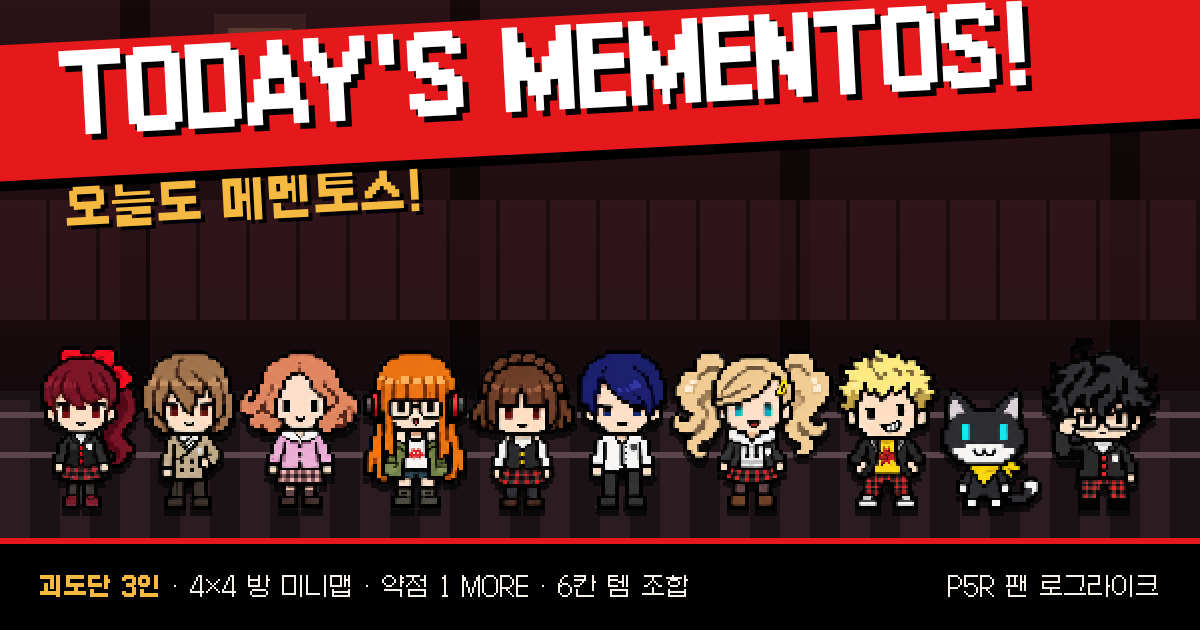
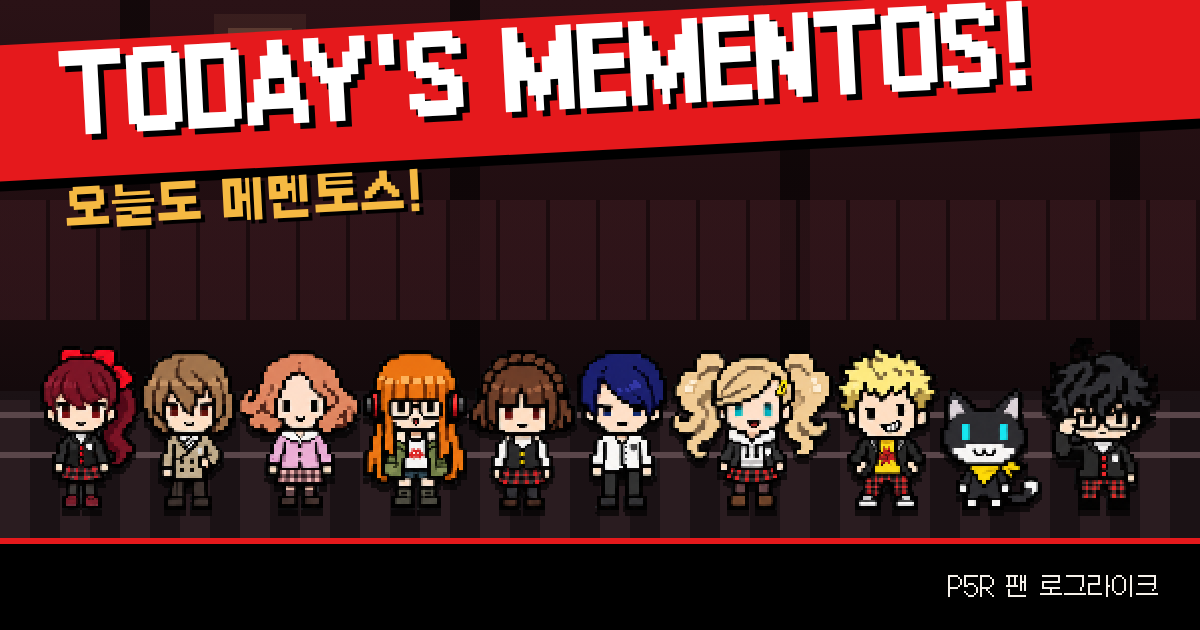
템 도트 아이콘 35종(img/items, tools/item_icons.py) + 공유 썸네일 아래 글씨 제거
- 템 25 · 진화 6 · 부정 기물 4. 16×16, 화면에선 2배 이상 픽셀 그대로. 그림이 없으면 이모지로 대체
- img/items/_sheet.png 미리보기

Claude-Session: https://claude.ai/code/session_01BqkyCJnCrT6qU5GWX59sbL

Changed region(s): [[0.0308, 0.9048, 0.4317, 0.9651], [0.4625, 0.9048, 0.5858, 0.9651]]

diff --git a/index.html b/index.html
@@ -113,6 +113,7 @@ button:disabled{opacity:.35;cursor:default}
 #tut{position:fixed;left:0;right:0;bottom:0;z-index:50;display:flex;justify-content:center;pointer-events:none}
 .tutbox{pointer-events:auto;max-width:440px;width:calc(100% - 16px);margin:0 8px 10px;background:#000;border:3px solid var(--c);box-shadow:6px 6px 0 rgba(0,0,0,.6);padding:10px 12px}
 .tutbox>b{color:var(--c);font-size:18px}.tutbox small{color:var(--mut)}.tutbox p{margin:6px 0 10px;font-size:14px;line-height:1.55}.tutbox .tui{color:var(--gold)}.tutbox .go{padding:10px 14px;font-size:18px}
+.pxi{width:28px;height:28px;image-rendering:pixelated;vertical-align:middle}.slot .pxi{width:28px;height:28px}.pk .pxi{width:36px;height:36px}.neg .pxi,.tog .pxi,.tip .pxi,.card .pxi{width:20px;height:20px;vertical-align:-5px}
 .tip{font-size:12px;color:var(--mut);min-height:18px}
 .acts{display:grid;grid-template-columns:1fr 1fr;gap:7px}
 .ab{background:var(--p2);padding:9px 10px;text-align:left;border-left:4px solid var(--c,#777);min-height:54px}
@@ -266,6 +267,8 @@ const EVO={
  gold:{n:'골드 쇼타임',ic:'🏆',r:'진화',ax:'약점',d:'한 턴에 1 MORE 2번이면 적 전체 60 피해 + 전원 DOWN'},
  choker:{n:'광전사의 초커',ic:'⛓',r:'진화',ax:'폭주',d:'스트레스 60 이상이면 매 턴 시작에 적 1체 20 피해 + 자기 HP 10 회복'}};
 const IT=id=>ITEMS[id]||EVO[id];
+/* 도트 아이콘 (img/items/<id>.png, tools/item_icons.py). 그림이 없으면 원래 이모지 */
+for(const [T,o] of [[ITEMS,0],[EVO,0],[NEG,0]])for(const [k,v] of Object.entries(T)){const e=v.ic;v.ic=`<img class="pxi" src="${IMG}items/${k}.png" alt="" onerror="this.replaceWith(document.createTextNode('${e}'))">`}
 const ROOM={start:{ic:'🚪',n:'입구'},battle:{ic:'⚔',n:'전투'},chest:{ic:'📦',n:'보물 상자'},curio:{ic:'❓',n:'기물'},bench:{ic:'🔧',n:'작업대'},boss:{ic:'💀',n:'관문 보스'}};
 const RISK_MAX=16,RISK_HOT=12;/* 거두는 자: 위험도 16에서 (예전 10은 B2 초입에 나와서 늦춤) */;
 /* ============ 저장 (mm-core · 시제품 때 저장 mm-proto는 처음 한 번 이어받음) ============ */

diff --git a/tools/og.html b/tools/og.html
@@ -24,5 +24,5 @@ html,body{margin:0;width:1200px;height:630px;overflow:hidden;background:#0f0b0c}
 <div class="party">
 <img src="../img/sprites/kasumi.png" width="100"><img src="../img/sprites/akechi.png" width="96"><img src="../img/sprites/haru.png" width="128"><img src="../img/sprites/futaba.png" width="106"><img src="../img/sprites/makoto.png" width="108"><img src="../img/sprites/yusuke.png" width="92"><img src="../img/sprites/ann.png" width="166"><img src="../img/sprites/ryuji.png" width="106"><img src="../img/sprites/mona.png" width="102"><img src="../img/sprites/joker.png" width="118">
 </div>
-<div class="foot"><span><b>괴도단 3인</b> · 4×4 방 미니맵 · 약점 1 MORE · 6칸 템 조합</span><span>P5R 팬 로그라이크</span></div>
+<div class="foot"><span></span><span>P5R 팬 로그라이크</span></div>
 </body></html>

diff --git a/tools/item_icons.py b/tools/item_icons.py
@@ -1,0 +1,259 @@
+"""템 · 진화 템 · 부정 기물 아이콘(16×16 도트)을 img/items/*.png 로 만든다 (개발용)
+
+사용법: python3 tools/item_icons.py   → img/items/<id>.png 와 미리보기 img/items/_sheet.png
+그림은 아래 글자 격자로 그린다. 한 글자 = 한 칸, '.' = 투명. 색은 PAL 참고.
+직접 그린 PNG로 바꾸고 싶으면 같은 이름(img/items/<id>.png, 16×16 권장)으로 덮어쓰면 된다.
+"""
+import os
+from PIL import Image
+
+PAL = {
+    'k': '#141012', 'w': '#f6f1ea', 'r': '#e5191c', 'd': '#8e0f13', 'y': '#f5b942', 'Y': '#b07a1c',
+    'o': '#ff7a3d', 'g': '#9a8f8a', 'G': '#5a5052', 'b': '#59a7ff', 'B': '#2a4d8f', 'c': '#7fd8ff',
+    'p': '#b45cff', 'P': '#ff4fd8', 'n': '#a8693e', 'N': '#5a3a22', 'l': '#5ee08a', 'L': '#2a8f4a',
+    's': '#cfd6df', 'e': '#ffe14a', 'm': '#3a2a2e',
+}
+
+ICONS = {
+ # ---------- 스위칭 축 ----------
+ 'boots': [  # 스프링 부츠
+  "................", "................", "......kkkk......", ".....kwwwwk.....",
+  ".....kwrrwk.....", "....kwrrrwk.....", "....kwrrrwkkkk..", "...kwrrrrwwwwwk.",
+  "..kwrrrrrrrrrrk.", "..kwwwwwwwwwwwk.", "..kkkkkkkkkkkkk.", ".....ksk.ksk....",
+  "......kssssk....", ".....ksk.ksk....", "......kssssk....", ".......kkkk.....",
+ ],
+ 'pass': [  # 지하철 정기권
+  "................", "................", "................", ".kkkkkkkkkkkkkk.",
+  ".kbbbbbbbbbbbbk.", ".kbwwwbbbbbbbbk.", ".kbwkwbbyyyyybk.", ".kbwwwbbbbbbbbk.",
+  ".kbbbbbbyyyybbk.", ".kwwwwwwwwwwwwk.", ".kwkkwkkwkkwkwk.", ".kwwwwwwwwwwwwk.",
+  ".kkkkkkkkkkkkkk.", "................", "................", "................",
+ ],
+ 'gear': [  # 회전문 톱니
+  "................", ".......kk.......", "...kk.kggk.kk...", "..kggkkggkkggk..",
+  "...kggggggggk...", "..kkggGkkGggkk..", ".kgggGk..kGgggk.", ".kkggk....kggkk.",
+  ".kkggk....kggkk.", ".kgggGk..kGgggk.", "..kkggGkkGggkk..", "...kggggggggk...",
+  "..kggkkggkkggk..", "...kk.kggk.kk...", ".......kk.......", "................",
+ ],
+ 'mirror': [  # 거울 파편
+  "................", "...........k....", "..........kck...", ".........kcwck..",
+  "........kccwck..", ".......kcccwck..", "......kccccck...", ".....kcccccck...",
+  "....kcccwccck...", "...kccwwcccck...", "...kcwwcccccck..", "..kccccccccccck.",
+  "..kkkkkkkkkkkkk.", "................", "................", "................",
+ ],
+ 'oil': [
+  "................", "...........kk...", "..........kgk...", ".........kgk....",
+  "...kkkkkkgk.....", "..kGGGGGGGk.....", "..kGsGGGGGGkkkk.", "..kGyyyyyGGGGGGk",
+  "..kGykkkyGkkkkk.", "..kGyyyyyGk.....", "..kGGGGGGGk.....", "..kGsGGGGGk.....",
+  "..kGGGGGGGk.....", "..kkkkkkkkk.....", "................", "................",
+ ],
+ 'coat': [  # 잔상 코트
+  "................", ".....kkkkkk.....", "....kGGwwGGk....", "...kGGGwwGGGk...",
+  "..kGGGGGGGGGGk..", "..kGkGGGGGGkGk..", "..kGkGGrrGGkGk..", "..kGkGGGGGGkGk..",
+  ".bkGkGGGGGGkGkb.", ".bkGkGGGGGGkGkb.", ".bkGGGGGGGGGGkb.", ".bkGGGGkkGGGGkb.",
+  ".bkGGGk..kGGGkb.", "..kkkk....kkkk..", "................", "................",
+ ],
+ 'envelope': [  # 예고장 봉투
+  "................", "................", "................", ".kkkkkkkkkkkkkk.",
+  ".kmrmmmmmmmmrmk.", ".kmmrmmmmmmrmmk.", ".kmmmrmmmmrmmmk.", ".kmmmmrrrrmmmmk.",
+  ".kmmmmrwwrmmmmk.", ".kmmmmrrrrmmmmk.", ".kmmmmmmmmmmmmk.", ".kmmmmmmmmmmmmk.",
+  ".kkkkkkkkkkkkkk.", "................", "................", "................",
+ ],
+ 'express': [  # 급행 열차표 (열차 앞모습)
+  "................", "....kkkkkkkk....", "...krrrrrrrrk...", "..krwwwrrwwwrk..",
+  "..krwccrrccwrk..", "..krwccrrccwrk..", "..krrrrrrrrrrk..", "..krrrrrrrrrrk..",
+  "..krkkrrrrkkrk..", "..kreyrrrryerk..", "..krrrrrrrrrrk..", "..kkkkkkkkkkkk..",
+  "...kgk....kgk...", "..kgggggggggggk.", "................", "................",
+ ],
+ # ---------- 약점 축 ----------
+ 'lens': [  # 분석 렌즈
+  "................", "....kkkkk.......", "...kcccccck.....", "..kcwwccccck....",
+  ".kcwccccccck....", ".kcccccccccck...", ".kcccccccccck...", ".kcccccccccck...",
+  "..kcccccccck....", "...kccccccnk....", "....kkkkknnk....", "..........knnk..",
+  "...........knnk.", "............knk.", ".............k..", "................",
+ ],
+ 'glove': [  # 전도성 장갑
+  "................", "......k.k.k.....", ".....kyk.kyk....", "....kkbkkbkk....",
+  "...kbkbkbkbk....", "...kbbbbbbbkk...", "...kbbbbbbbbbk..", "...kbbeebbbbbk..",
+  "...kbbbeebbbk...", "...kbbbbebbbk...", "...kbbbbbbbbk...", "....kbbbbbbk....",
+  "....kssssssk....", "....kkkkkkkk....", "................", "................",
+ ],
+ 'term': [  # 교란 단말기
+  "................", "..........kk....", ".........kGk....", "...kkkkkkGkk....",
+  "...kGGGGGGGGk...", "...kGkkkkkkGk...", "...kGkllllkGk...", "...kGklLlLkGk...",
+  "...kGkllllkGk...", "...kGkkkkkkGk...", "...kGGGGGGGGk...", "...kGrGeGlGGk...",
+  "...kGGGGGGGGk...", "...kkkkkkkkkk...", "................", "................",
+ ],
+ 'relay': [  # 연쇄 릴레이
+  "................", "................", "..kkkk..........", ".kgsgsk.........",
+  ".kg..kgk........", ".ks..kkkkkk.....", ".kgsgkgsgsgk....", "..kkkkkg..kgk...",
+  ".....ks..kskkkk.", ".....kgsgkgsgsk.", "......kkkkkg..kg", "..........ks..ks",
+  "..........kgsgsk", "...........kkkk.", "................", "................",
+ ],
+ 'chip': [  # 감염 칩
+  "................", "....k.k.k.k.....", "....k.k.k.k.....", "..kkkkkkkkkkk...",
+  "k.kLLLLLLLLLk.k.", "kkkLlllllllLkkk.", "..kLlpplpplLk...", "kkkLlpPPPplLkkk.",
+  "..kLlpPkPplLk...", "kkkLlpPPPplLkkk.", "..kLlpplpplLk...", "k.kLLLLLLLLLk.k.",
+  "..kkkkkkkkkkk...", "....k.k.k.k.....", "....k.k.k.k.....", "................",
+ ],
+ 'battery': [  # 배터리 팩
+  "................", "......kkkk......", "....kkkGGkkk....", "....kGGGGGGk....",
+  "....kGkkkkGk....", "....kGkllkGk....", "....kGkllkGk....", "....kGkkkkGk....",
+  "....kGkllkGk....", "....kGkllkGk....", "....kGkkkkGk....", "....kGkllkGk....",
+  "....kGkllkGk....", "....kGGGGGGk....", "....kkkkkkkk....", "................",
+ ],
+ 'ticket': [  # 쇼타임 티켓
+  "................", "................", "................", "kkkkkkkkkkkkkkkk",
+  "kyyyyyyykyyyyyyk", "kyyyykyykyyyyyyk", ".kyyykkkkyyrryk.", "..kykkkkkyyrryk.",
+  ".kyyykkkkyyyyyk.", "kyyykyykkyyyyyyk", "kyyyyyyykyyyyyyk", "kkkkkkkkkkkkkkkk",
+  "................", "................", "................", "................",
+ ],
+ 'dice': [
+  "................", "................", "..kkkkkkkkkkk...", ".kwwwwwwwwwwwk..",
+  ".kwkkwwwwwwwwk..", ".kwkkwwwwwwwwk..", ".kwwwwwkkwwwwk..", ".kwwwwwkkwwwwk..",
+  ".kwwwwwwwwkkwk..", ".kwwwwwwwwkkwk..", ".kwwwwwwwwwwwk..", ".kgwwwwwwwwwgk..",
+  "..kkkkkkkkkkk...", "................", "................", "................",
+ ],
+ # ---------- 스트레스 폭주 축 ----------
+ 'thorn': [  # 가시 목걸이
+  "................", "..k..........k..", ".kGk........kGk.", ".kGk...k....kGk.",
+  "..kGk.kgk..kGk..", "..kGk.kgk..kGk..", "...kGkkgkkkGk...", "...kGGGGGGGGk...",
+  "..kgkGGGGGGkgk..", "...kkkGrrGkkk...", ".....kGrrGk.....", "......krrk......",
+  ".......kk.......", "................", "................", "................",
+ ],
+ 'clock': [  # 깨진 회중시계
+  "................", ".......kk.......", "......kyyk......", ".....kkkkkk.....",
+  "....kyyyyyyk....", "...kywwwwwwyk...", "..kywwwkwwwwyk..", "..kywwwkwwkwyk..",
+  "..kywwwkkwkwyk..", "..kywwwwwkwwyk..", "..kywwwwwwkwyk..", "...kywwwwkwyk...",
+  "....kyyyyyyk....", ".....kkkkkk.....", "................", "................",
+ ],
+ 'phones': [  # 분노의 헤드폰
+  "................", ".....kkkkkk.....", "....kGGGGGGk....", "...kGkkkkkkGk...",
+  "..kGk......kGk..", "..kGk......kGk..", ".kkkk......kkkk.", ".krrk......krrk.",
+  ".krrk......krrk.", ".krrk......krrk.", ".kddk......kddk.", ".kkkk......kkkk.",
+  "................", "................", "................", "................",
+ ],
+ 'badge': [  # 공명 뱃지
+  "................", "....kkkkkkk.....", "...kpppppppk....", "..kppwwwwwppk...",
+  ".kppwPPPPPwppk..", ".kpwPkkPkkPwpk..", ".kpwPPPPPPPwpk..", ".kpwPkPPPkPwpk..",
+  ".kpwPPkkkPPwpk..", ".kppwPPPPPwppk..", "..kppwwwwwppk...", "...kpppppppk....",
+  "....kkkkkkk.....", "................", "................", "................",
+ ],
+ 'valve': [  # 압력 밸브
+  "................", "......kkkk......", "....kkrrrrkk....", "...krrkkkkrrk...",
+  "..krk.kssk.krk..", "..krkkkssk.krk..", ".krr.kssssk.rrk.", ".krrkssGGsskrrk.",
+  ".krr.kssssk.rrk.", "..krk.kssk.krk..", "..krk.kssk.krk..", "...krrkkkkrrk...",
+  "....kkrrrrkk....", "......kkkk......", "................", "................",
+ ],
+ 'fuse': [
+  "................", "............ey..", "...........eoe..", "...........kok..",
+  "..........k.....", ".........k......", "..kkkkkkkk......", ".krrkrrkrrk.....",
+  ".krrkrrkrrk.....", ".kwwkwwkwwk.....", ".krrkrrkrrk.....", ".krrkrrkrrk.....",
+  ".kddkddkddk.....", ".kkkkkkkkkk.....", "................", "................",
+ ],
+ 'mask': [  # 광기의 가면 (오리지널 디자인)
+  "................", "................", "...kkkkkkkkkk...", "..kwwwwwwwwwwk..",
+  ".kwwwwwwwwwwwwk.", ".kwkkkwwwwkkkwk.", ".kwkrrkwwkrrkwk.", ".kwkkkwwwwkkkwk.",
+  ".kwwwwwkkwwwwwk.", ".kwwwwkwwkwwwwk.", "..kwwwwwwwwwwk..", "..kwwkkkkkkwwk..",
+  "...kwkPPPPkwk...", "....kkkkkkkk....", "................", "................",
+ ],
+ 'seal': [  # 적반하장 인장
+  "................", ".....kkkkkk.....", "...kkrrrrrrkk...", "..krrddddddrrk..",
+  "..krdrrrrrrdrk..", ".krdrrkkkkrrdrk.", ".krdrkrrrrkrdrk.", ".krdrkrkkrkrdrk.",
+  ".krdrkrrrrkrdrk.", ".krdrrkkkkrrdrk.", "..krdrrrrrrdrk..", "..krrddddddrrk..",
+  "...kkrrrrrrkk...", ".....kkrrkk.....", "......krrk......", ".......kk.......",
+ ],
+ 'contra': [  # 역발상 부적
+  "................", ".....kkkkkk.....", ".....keeeek.....", ".....keeeek.....",
+  ".....kerrek.....", ".....keerek.....", ".....kerrek.....", ".....keeeek.....",
+  ".....kerrek.....", ".....kereek.....", ".....kerrek.....", ".....keeeek.....",
+  ".....keeeek.....", ".....kkrrkk.....", "......krrk......", ".......kk.......",
+ ],
+ # ---------- 진화 템 ----------
+ 'sboots': [  # 초음속 부츠
+  "................", ".e..............", "..e...kkkk......", "...e.kyyyyk.....",
+  "....eky..yk.....", "...e.kyyyyk.kk..", "..e.kyyyyykkwwk.", ".e..kyyyyyyywwk.",
+  "...kyyyyyyyyyyk.", "..kyyyyyyyyyyyk.", "..kyyyyyyyyyyyk.", "..kkkkkkkkkkkkk.",
+  "..ee.ee.ee......", "................", "................", "................",
+ ],
+ 'rails': [  # 무한 선로
+  "................", "................", "...k........k...", "..ksk......ksk..",
+  ".kkkkkkkkkkkkkk.", ".knnnnnnnnnnnnk.", ".kkkkkkkkkkkkkk.", "..ksk......ksk..",
+  ".kkkkkkkkkkkkkk.", ".knnnnnnnnnnnnk.", ".kkkkkkkkkkkkkk.", "..ksk......ksk..",
+  ".kkkkkkkkkkkkkk.", ".knnnnnnnnnnnnk.", ".kkkkkkkkkkkkkk.", "..ksk......ksk..",
+ ],
+ 'gaunt': [  # 과부하 건틀릿
+  "................", "...kkkkkkkk.....", "..kssksskssk....", "..kssksskssk.k..",
+  "..kssksskssskek.", "..kssssssssseek.", "..ksGGGGGGsseek.", "..ksGeeeeGssek..",
+  "..ksGGGGGGssk...", "..kssssssssk....", "...kGGGGGGk.....", "...ksssssk......",
+  "...kGGGGGGk.....", "...kkkkkkkk.....", "................", "................",
+ ],
+ 'navi': [  # 내비의 코어
+  "................", ".......kk.......", "......klLk......", ".....kllLLk.....",
+  "....kllwlLLk....", "...kllwllLLLk...", "..kllllllLLLLk..", ".kllllllLLLLLLk.",
+  "..kLLLLLLLLLLk..", "...kLLLLLLLLk...", "....kLLLLLLk....", ".....kLLLLk.....",
+  "......kLLk......", ".......kk.......", "................", "................",
+ ],
+ 'gold': [  # 골드 쇼타임
+  "................", "....k..k..k.....", "...kyk.kyk.kyk..", "...kyykyyykyyk..",
+  "...kyyyyyyyyyk..", "...kkkkkkkkkkk..", "kkkkkkkkkkkkkkkk", "kyyyyyyykyyyyyyk",
+  "kyyykyyykyyyyyyk", ".kykkkkkkyyrryk.", ".kyyykyyykyyyyk.", "kyyyyyyykyyyyyyk",
+  "kkkkkkkkkkkkkkkk", "................", "................", "................",
+ ],
+ 'choker': [  # 광전사의 초커
+  "................", "................", "...k.k.k.k.k....", "..kGkGkGkGkGk...",
+  ".kkkkkkkkkkkkk..", ".kGGGGGGGGGGGk..", ".kGrGGGGGGGrGk..", ".kkkkkkkkkkkkk..",
+  ".....kgggk......", "......kgk.......", ".....kgggk......", "......krk.......",
+  ".....krrrk......", "......krk.......", ".......k........", "................",
+ ],
+ # ---------- 부정 기물 ----------
+ 'crack': [  # 깨진 정기권
+  "................", "................", "................", ".kkkkkkkk.kkkkk.",
+  ".kbbbbbbk.kbbbk.", ".kbwwwbk.kbbbbk.", ".kbwkwbbk.kyybk.", ".kbwwwbk.kbbbbk.",
+  ".kbbbbbbk.kyybk.", ".kwwwwwk.kwwwwk.", ".kwkkwwwk.kwkwk.", ".kwwwwwk.kwwwwk.",
+  ".kkkkkkk.kkkkkk.", "................", "................", "................",
+ ],
+ 'cuffs': [  # 녹슨 수갑
+  "................", "................", "...kkkk...kkkk..", "..knnnnk.knnnnk.",
+  ".knk..knknk..knk", ".knk..kgggk..knk", ".knk..knknk..knk", "..knnnnk.knnnnk.",
+  "...kkkk...kkkk..", "................", "................", "................",
+  "................", "................", "................", "................",
+ ],
+ 'chain': [  # 쇠사슬 파편
+  "................", "....kkkk........", "...kGggGk.......", "...kg..gk.......",
+  "...kGkkGkkk.....", "....kkkGggGk....", ".......kg..gk...", ".......kGkkGkkk.",
+  "........kkkGggGk", "...........kg..g", "...........kGkkG", "............kkkk",
+  "................", "................", "................", "................",
+ ],
+ 'radio': [  # 먹통 무전기
+  "................", "...k............", "...k............", "...k............",
+  "..kkkkkkk.......", "..kGGGGGk.......", "..kGkkkGk.......", "..kGkrkGk.......",
+  "..kGkkkGk.......", "..kGGGGGkr...r..", "..kGgGgGk.r.r...", "..kGGGGGk..r....",
+  "..kGgGgGk.r.r...", "..kGGGGGkr...r..", "..kkkkkkk.......", "................",
+ ],
+}
+
+
+def main():
+    root = os.path.join(os.path.dirname(__file__), '..', 'img', 'items')
+    os.makedirs(root, exist_ok=True)
+    rgb = {k: tuple(int(v[i:i + 2], 16) for i in (1, 3, 5)) for k, v in PAL.items()}
+    ims = []
+    for name, rows in ICONS.items():
+        rows = [(r + '.' * 16)[:16] for r in (rows + ['.' * 16] * 16)[:16]]
+        im = Image.new('RGBA', (16, 16), (0, 0, 0, 0))
+        for y, r in enumerate(rows):
+            for x, ch in enumerate(r):
+                if ch in rgb:
+                    im.putpixel((x, y), rgb[ch] + (255,))
+        im.save(os.path.join(root, f'{name}.png'))
+        ims.append((name, im))
+    cols = 8
+    sheet = Image.new('RGBA', (cols * 72, ((len(ims) + cols - 1) // cols) * 72), (15, 11, 12, 255))
+    for i, (_, im) in enumerate(ims):
+        sheet.paste(im.resize((64, 64), Image.NEAREST), ((i % cols) * 72 + 4, (i // cols) * 72 + 4), im.resize((64, 64), Image.NEAREST))
+    sheet.save(os.path.join(root, '_sheet.png'))
+    print(len(ims), 'icons')
+
+
+if __name__ == '__main__':
+    main()

diff --git a/README.md b/README.md
@@ -22,6 +22,7 @@
 - `DESIGN.md` — 색·글꼴·컴포넌트·모션 규칙
 - `content/script.xlsx` — 대사·스크립트 시트 원본
 - `tools/import_script.py` — 시트를 게임 데이터로 바꿔 `index.html`의 SCRIPT 블록에 넣는 도구. 결과 보고는 `docs/script-import.md`
+- `tools/item_icons.py` — 템·진화 템·부정 기물 16×16 도트 아이콘(`img/items/`)을 글자 격자로 그려 만드는 도구. 직접 그린 PNG로 같은 이름 덮어써도 됨
 - `tools/sim.py` 등 — 예전 버전(`legacy.html`)용 개발 도구
 
 ## 안내
